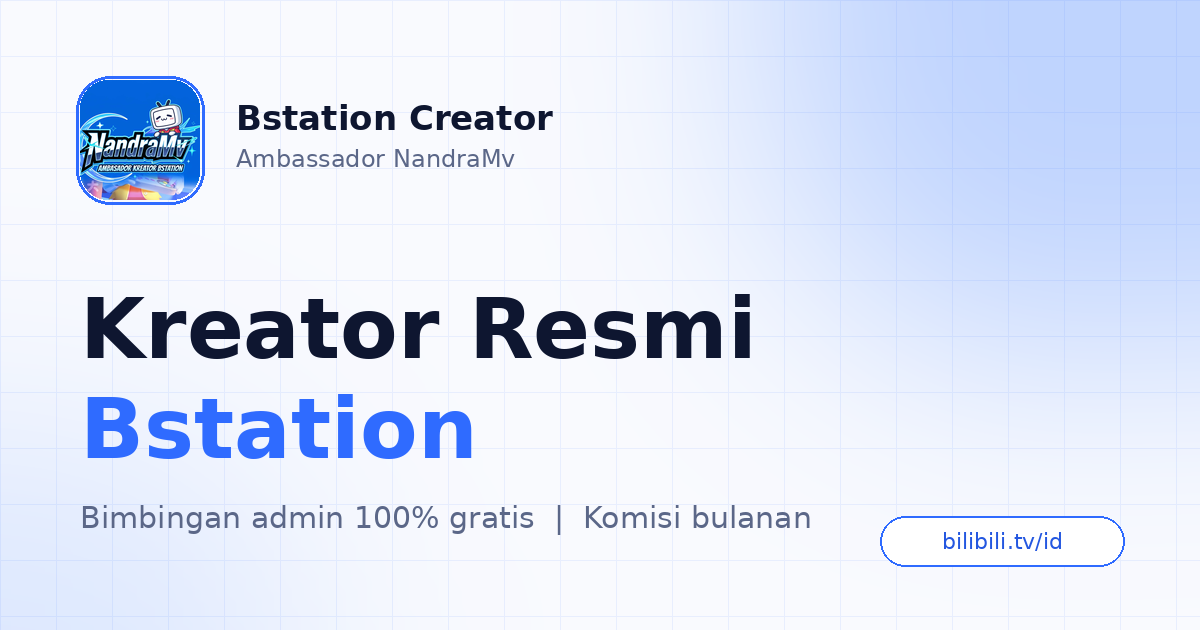
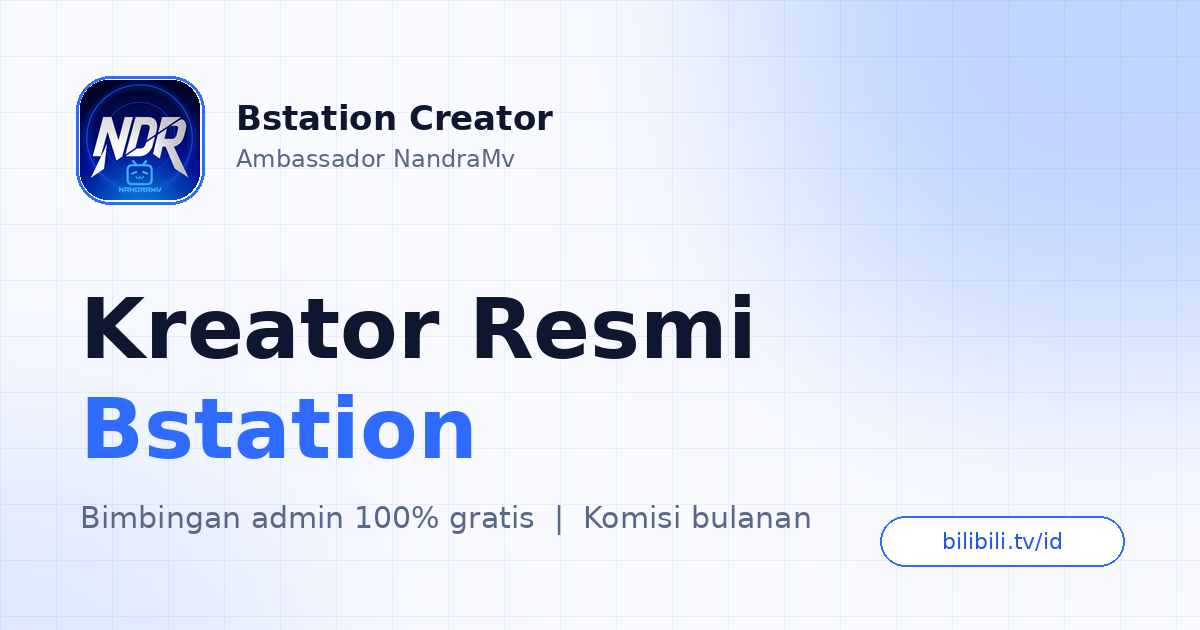
Add files via upload

Changed region(s): [[0.0617, 0.1206, 0.185, 0.3317]]

diff --git a/index.html b/index.html
@@ -97,8 +97,8 @@
 
   .topbar{ display:flex; align-items:center; justify-content:space-between; margin-bottom:28px; }
   .brand{ display:flex; align-items:center; gap:10px; }
-  .brand-mark{ width:34px; height:34px; border-radius:10px; overflow:hidden; display:flex; align-items:center; justify-content:center; flex-shrink:0; }
-  .brand-mark img{ width:100%; height:100%; object-fit:cover; display:block; }
+  .brand-mark{ height:32px; border-radius:8px; display:flex; align-items:center; justify-content:center; flex-shrink:0; }
+  .brand-mark img{ height:100%; width:auto; display:block; }
   .brand-name{ font-size:15px; font-weight:700; letter-spacing:0.02em; }
   .brand-sub{ font-size:11px; color:var(--muted); }
   .pill-tag{ font-size:11px; color:var(--blue2); border:1px solid var(--line); padding:6px 12px; border-radius:99px; background:var(--surface); }
@@ -325,18 +325,6 @@
   }
   .cursor-spot.on{ opacity:1; }
 
-  /* logo pulse ring */
-  .brand-mark{ position:relative; }
-  .brand-mark::after{
-    content:''; position:absolute; inset:-4px; border-radius:13px;
-    border:1.5px solid rgba(90,139,255,0.55);
-    animation:ringPulse 2.6s ease-out infinite;
-  }
-  @keyframes ringPulse{
-    0%{ transform:scale(0.92); opacity:.9; }
-    70%{ transform:scale(1.28); opacity:0; }
-    100%{ opacity:0; }
-  }
 
   /* hero heading text (static, no animation) */
   .hero h1{ overflow:visible; }
@@ -557,11 +545,34 @@
   .com-head{ display:flex; align-items:center; gap:12px; margin-bottom:14px; }
   .com-head h3{ font-size:16px; margin:0 0 2px; }
   .com-head p{ font-size:12.5px; color:var(--muted); margin:0; }
-  .com-logo{ width:48px; height:48px; border-radius:14px; object-fit:cover; flex-shrink:0; animation:comRing 2.4s ease-out infinite; }
+  .com-logo{ width:62px; height:48px; border-radius:14px; background:var(--surface2); border:1px solid var(--line); display:flex; align-items:center; justify-content:center; padding:8px; flex-shrink:0; animation:comRing 2.4s ease-out infinite; }
+  .com-logo img{ max-width:100%; max-height:100%; object-fit:contain; }
+  .brand-mark .logo-l, .com-logo .logo-l{ display:none; }
+  [data-theme="light"] .brand-mark .logo-d, [data-theme="light"] .com-logo .logo-d{ display:none; }
+  [data-theme="light"] .brand-mark .logo-l, [data-theme="light"] .com-logo .logo-l{ display:block; }
   @keyframes comRing{ 0%{ box-shadow:0 0 0 0 rgba(47,107,255,.5); } 100%{ box-shadow:0 0 0 12px rgba(47,107,255,0); } }
   .com-list{ display:flex; flex-direction:column; gap:12px; margin-bottom:16px; }
   .com-item b{ display:block; font-size:14px; margin-bottom:1px; }
   .com-item span{ font-size:12.5px; color:var(--muted); }
+
+  /* ================= TAMPILAN LAPTOP / DESKTOP (>= 1024px); HP tidak berubah ================= */
+  @media (min-width:1024px){
+    .wrap{ max-width:1040px; padding:40px 32px 130px; }
+    .hero h1{ font-size:48px; line-height:1.1; }
+    .hero p{ font-size:17px; max-width:640px; }
+    .page.active{ display:grid; grid-template-columns:repeat(2,minmax(0,1fr)); gap:16px 20px; align-items:start; }
+    .page.active > *{ grid-column:1/-1; margin-bottom:0; }
+    .page.active > .section-label{ margin:14px 0 0; }
+    .page.active > .card:not(.share-card), .page.active > .faq-item{ grid-column:auto; }
+    .page.active .grid2{ gap:20px; }
+    #page-category.active{ grid-template-columns:repeat(3,minmax(0,1fr)); }
+    #page-join.active{ grid-template-columns:repeat(6,minmax(0,1fr)); }
+    #page-join.active > a.cta-primary, #page-join.active > a.cta-secondary{ grid-column:span 2; margin:0; }
+    #page-join.active > .section-label + .card{ grid-column:1/-1; }
+    #page-join.active > .divider ~ .card:not(.share-card){ grid-column:span 3; }
+    .page.active > .phone-note{ text-align:center; }
+    .ai-fab{ right:max(24px, calc((100vw - 1040px) / 2 - 8px)); }
+  }
 
   .read-progress{ position:fixed; top:0; left:0; right:0; height:3px; z-index:40; transform-origin:0 50%; transform:scaleX(0);
     background:linear-gradient(90deg,var(--blue),var(--blue2)); pointer-events:none; }
@@ -588,7 +599,8 @@
   <div class="topbar">
     <div class="brand">
       <div class="brand-mark">
[3 lines of base64/hex data omitted]
       </div>
       <div>
         <div class="brand-name">Bstation Creator</div>
@@ -946,7 +958,7 @@
 
     <div class="card community stagger">
       <div class="com-head">
-        <img class="com-logo" data-logo alt="" width="48" height="48">
+        <span class="com-logo"><img class="logo-d" data-logo="d" alt="Logo NDR"><img class="logo-l" data-logo="l" alt="Logo NDR"></span>
         <div>
           <h3>Kreator Bstation Ambassador</h3>
           <p>Komunitas WhatsApp &middot; 4 grup</p>
@@ -983,7 +995,7 @@
     </div>
 
     <p class="phone-note">WhatsApp resmi ambassador: <b>085823443082</b> · Peraturan bisa berubah sewaktu-waktu.</p>
-    <p class="phone-note">Website ini dikelola Ambassador NandraMv, bukan situs resmi Bstation.</p>
+    <p class="phone-note">Website ini dikelola Ambassador NandraMv</p>
   </section>
 
 </div>
@@ -1500,7 +1512,7 @@
     renderTabs(); renderForm();
   })();
 
-  document.querySelectorAll('[data-logo]').forEach(i => { const l = document.querySelector('.brand-mark img'); if(l) i.src = l.src; });
+  document.querySelectorAll('[data-logo]').forEach(i => { const l = document.querySelector('.brand-mark .logo-' + i.dataset.logo); if(l) i.src = l.src; });
 
   /* ================= INDIKATOR SCROLL ================= */
   const prog = document.getElementById('readProgress');
